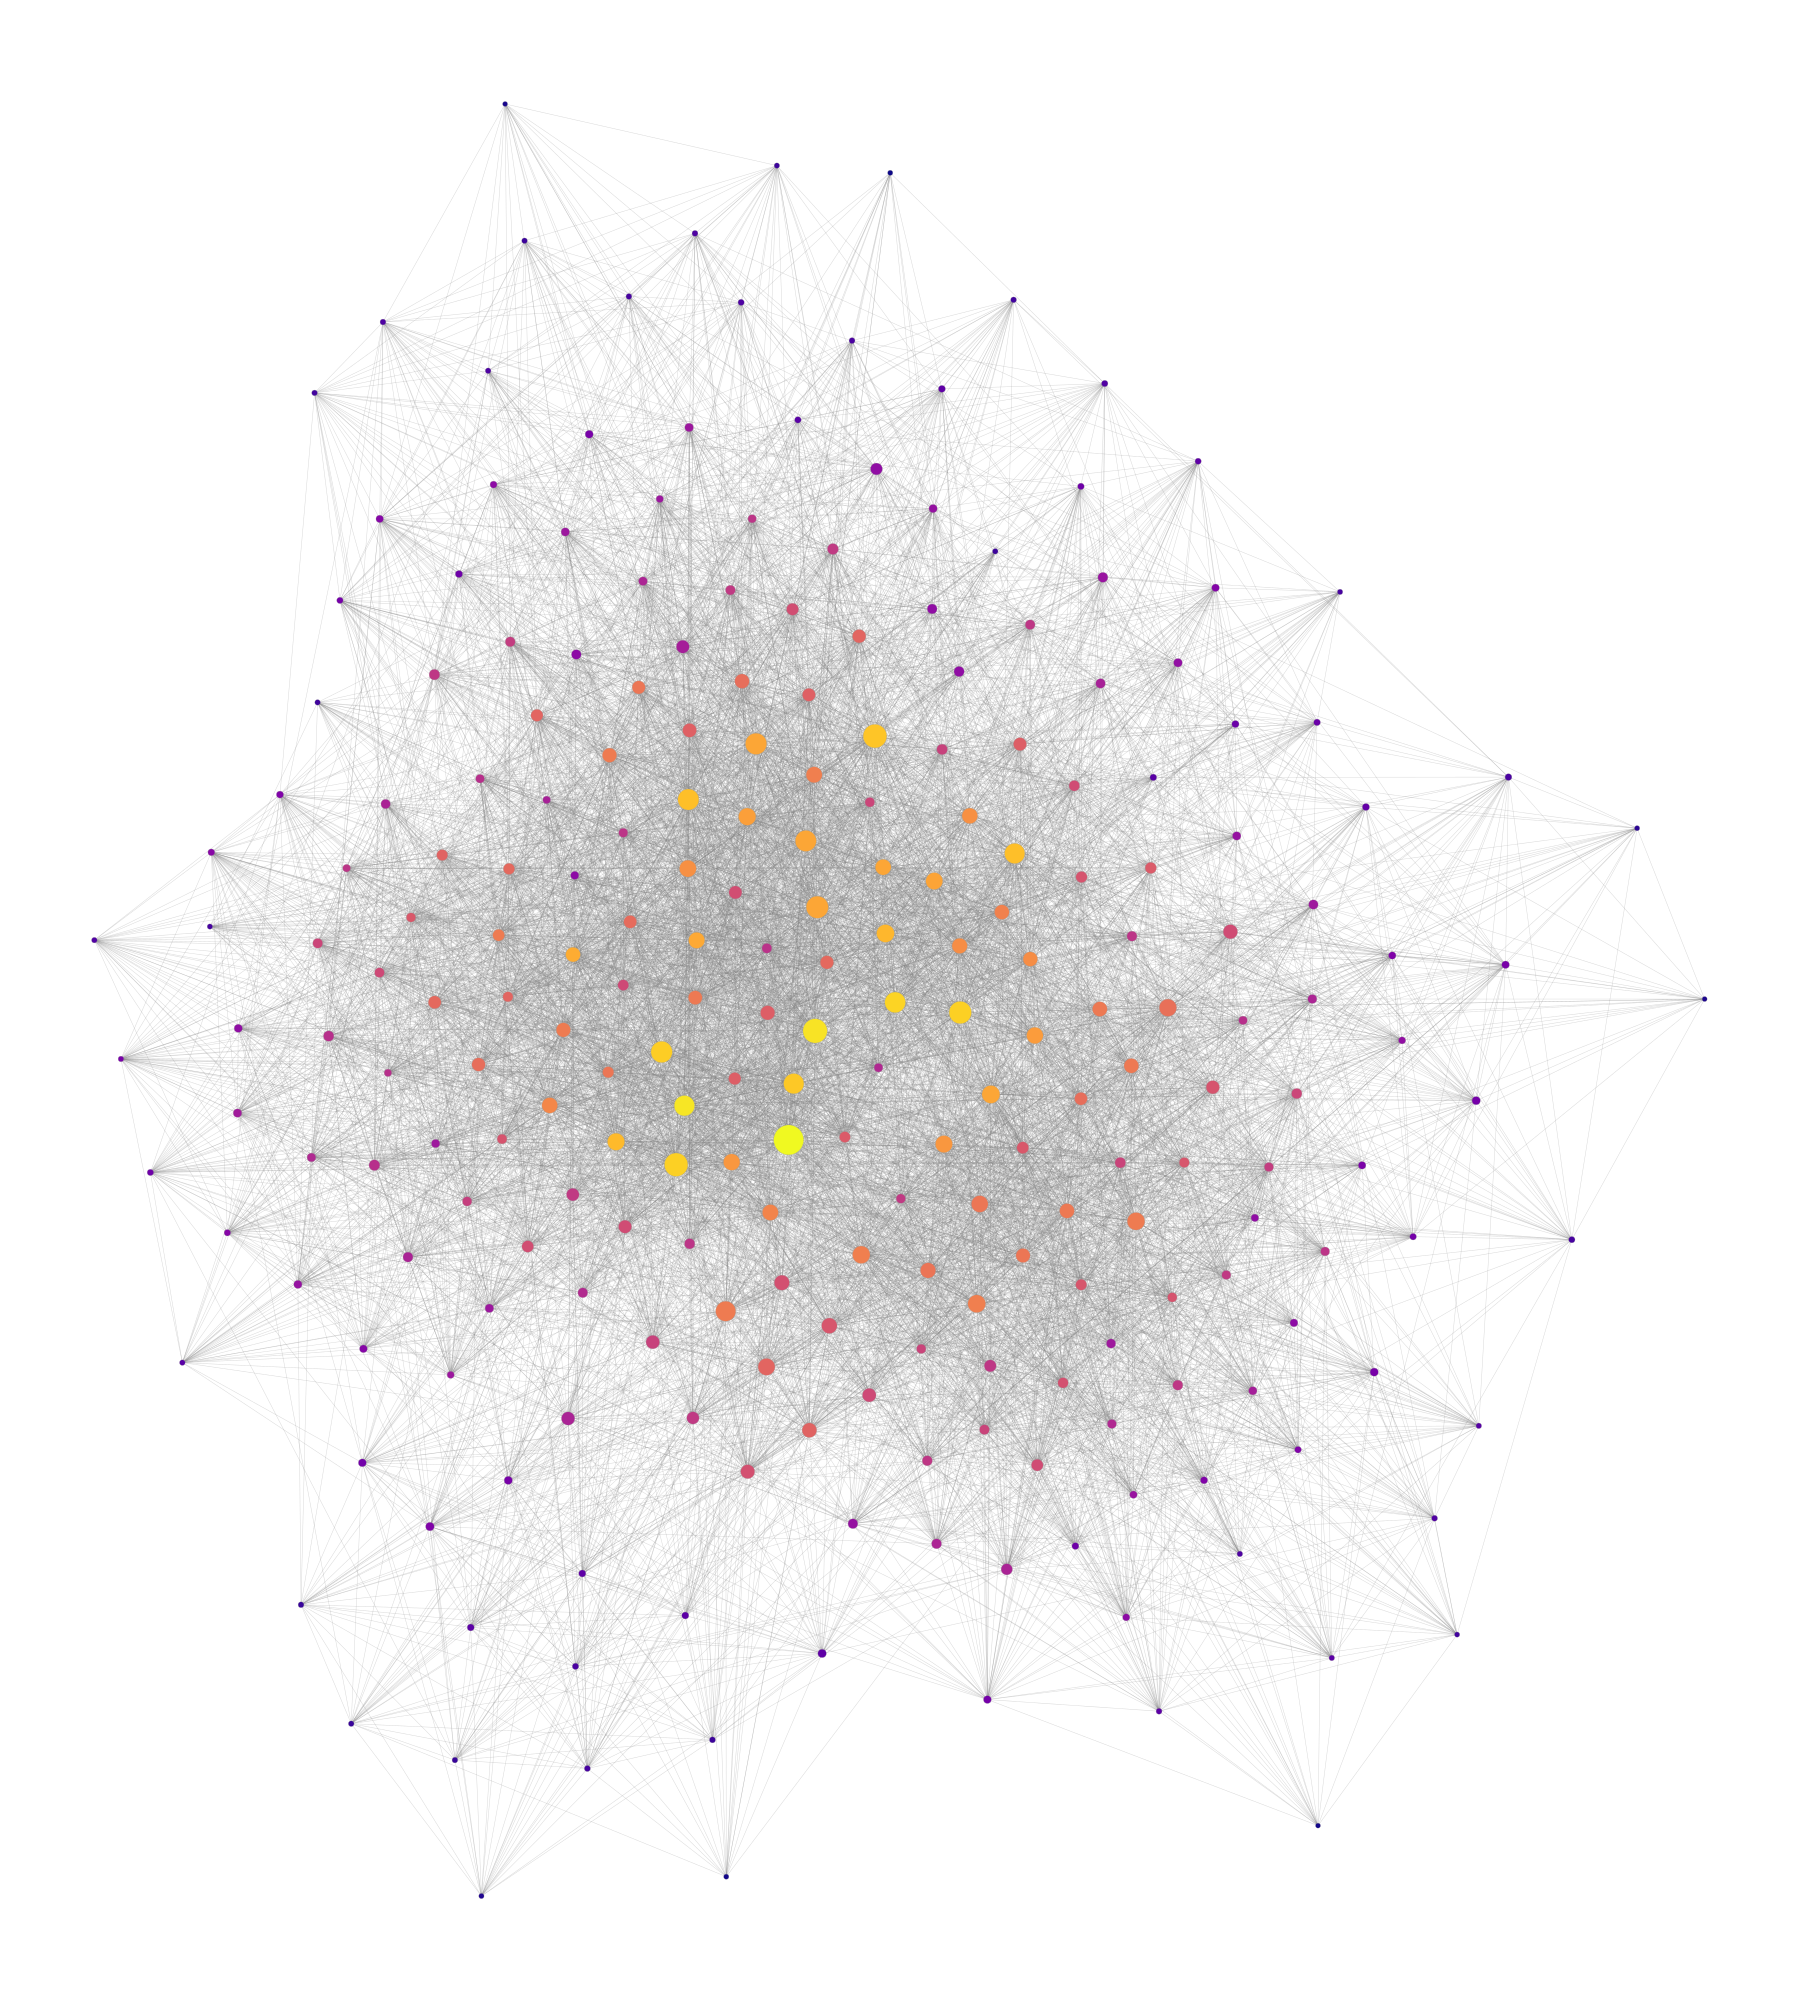
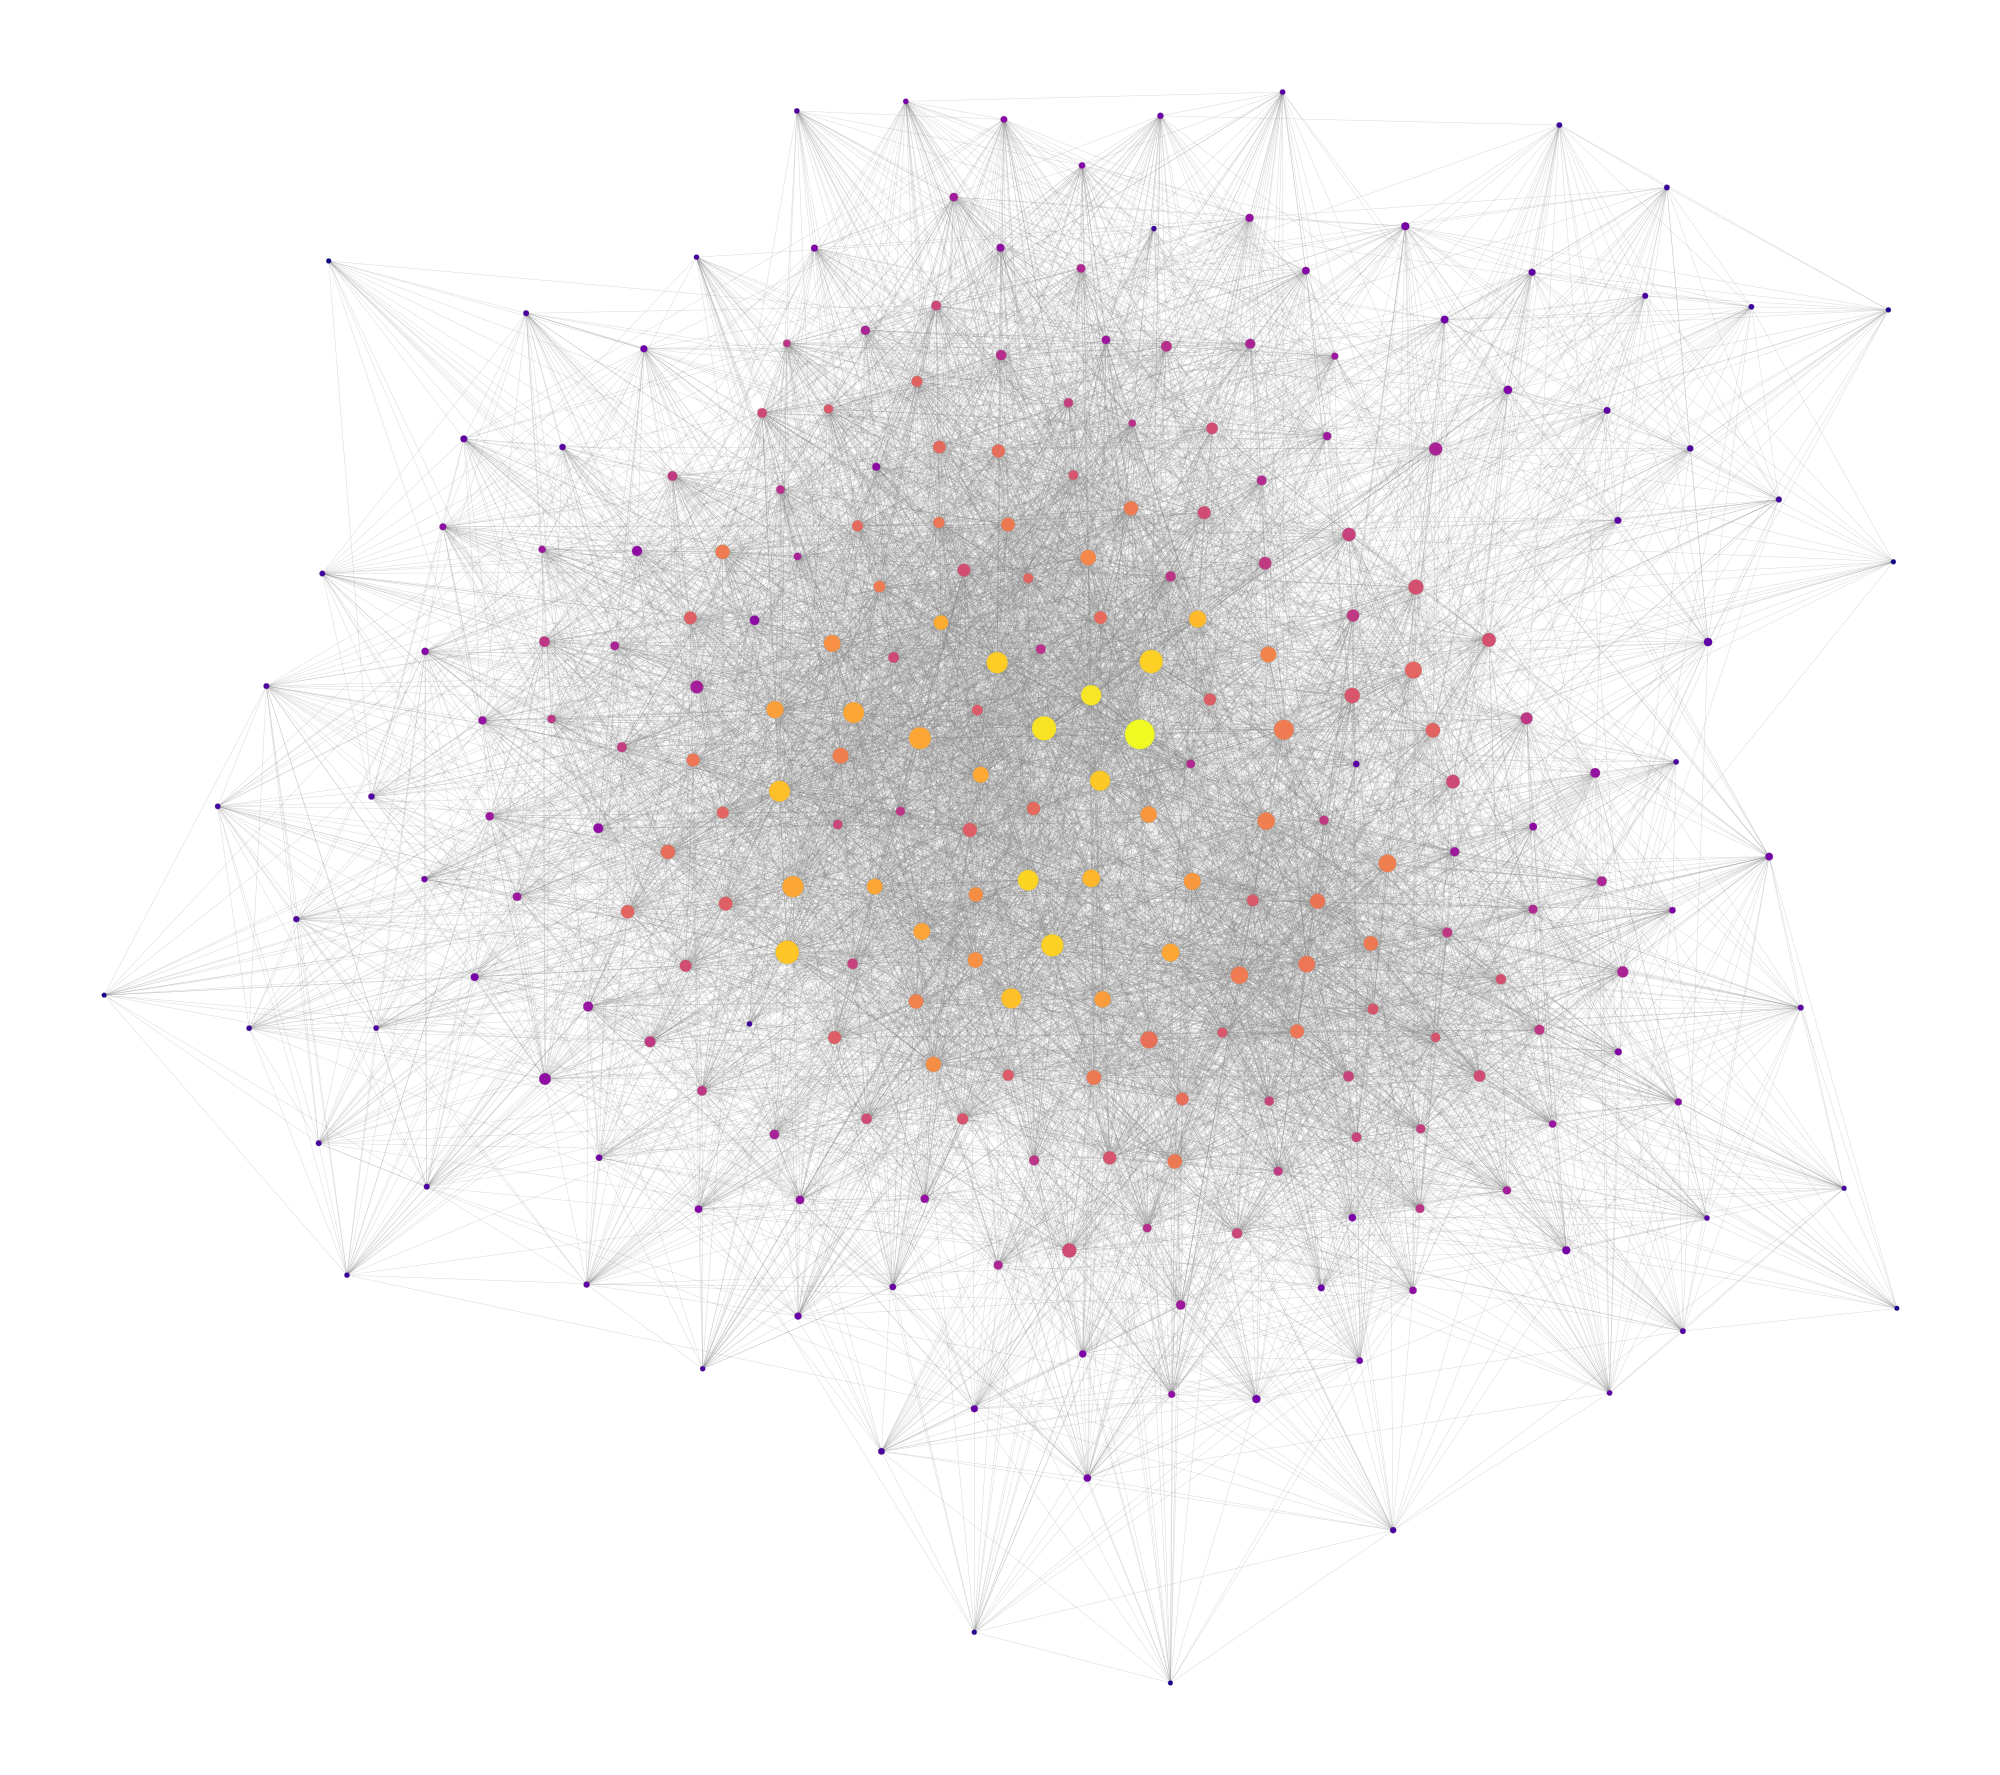
fix: proper color distribution for SBM communities visualization
- Map block IDs to consecutive indices before assigning colors
- This ensures all 18 communities use distinct colors from tab20 colormap
- Previously blocks with non-consecutive IDs would map to similar colors
- Regenerated all figures with the fix

diff --git a/src/visualization.py b/src/visualization.py
@@ -165,13 +165,17 @@ def plot_community_network(
     """
     Plot network colored by SBM blocks.
     """
-    n_blocks = len(np.unique(block_assignment))
+    unique_blocks = np.unique(block_assignment)
+    n_blocks = len(unique_blocks)
+    # Map block IDs to consecutive indices for proper color distribution
+    block_to_idx = {block: idx for idx, block in enumerate(unique_blocks)}
     cmap = plt.cm.Set2 if n_blocks <= 8 else plt.cm.tab20
     
     vcolor = g.new_vertex_property("vector<double>")
     for v in g.vertices():
         block = block_assignment[int(v)]
-        rgba = cmap(block / max(n_blocks - 1, 1))
+        idx = block_to_idx[block]
+        rgba = cmap(idx / max(n_blocks - 1, 1))
         vcolor[v] = list(rgba)
     
     pos = sfdp_layout(g, K=1.5)
